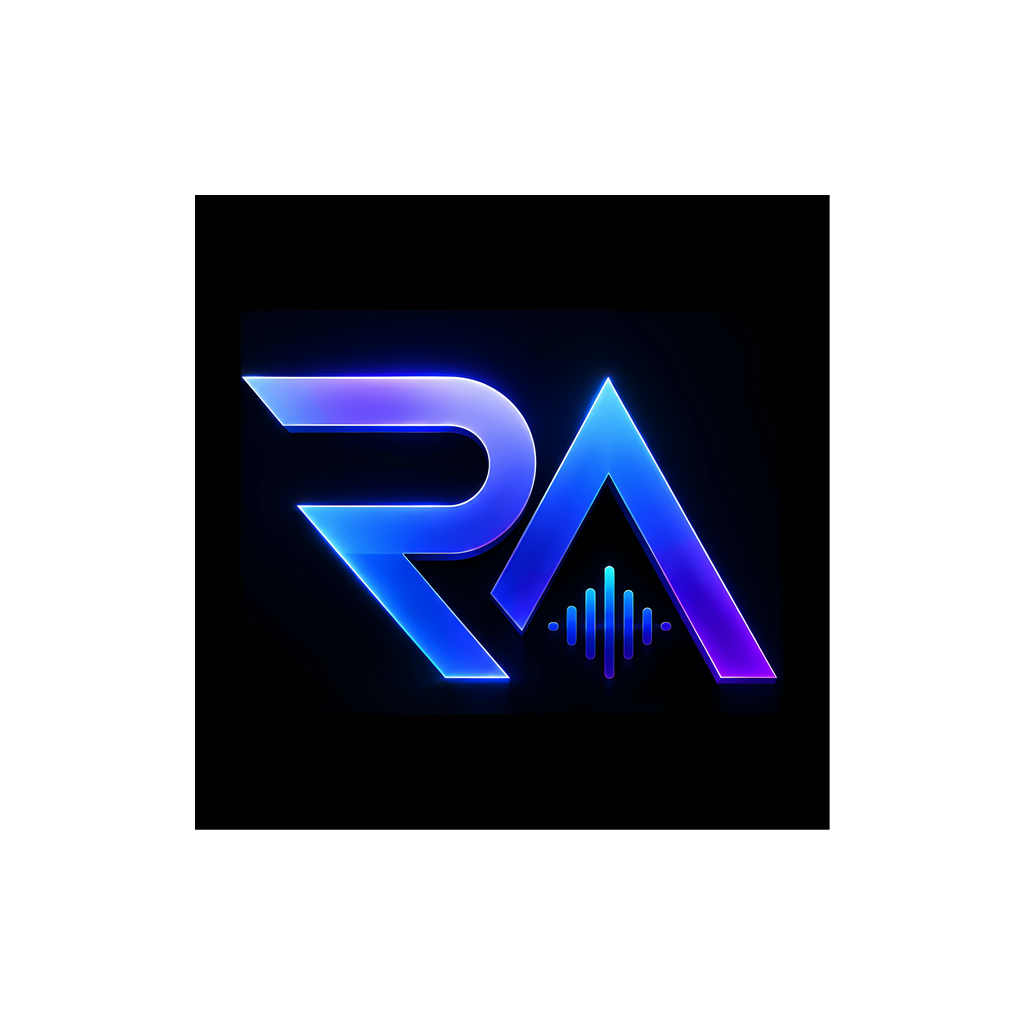
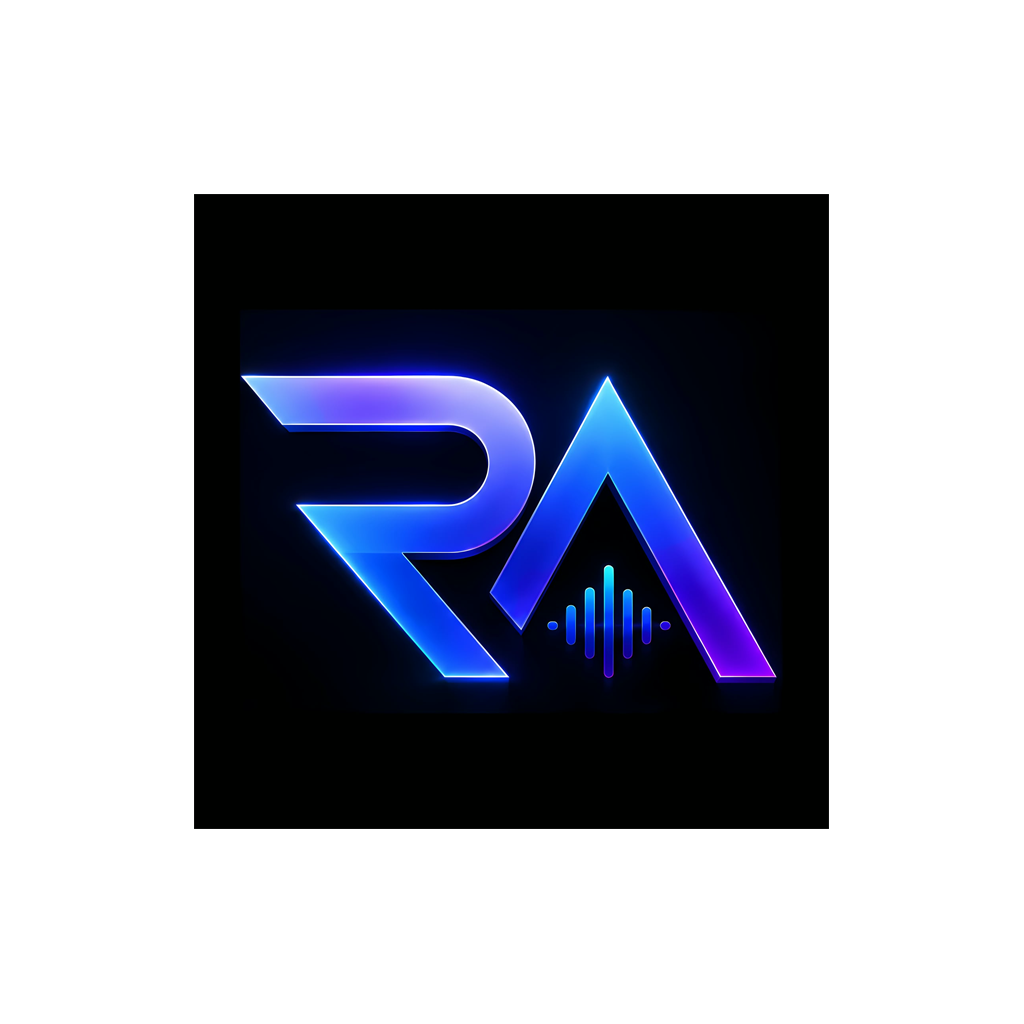
feat: recording UI resilience — hydration gates, AppState reconcile, pause-aware native timer
Reconcile the recording screen with real native state on mount and foreground
(AppState refresh), gate the tabs on storage hydration to prevent blank tabs on
cold start, make the foreground-service notification timer pause-aware, keep the
search scroll input usable (keyboardShouldPersistTaps / on-drag dismiss), correct
the phone-call card copy, and refresh app assets/name (RecordioAIApp).

diff --git a/plugins/withRecordioRecording/android/java/com/recordioai/app/service/RecordingForegroundService.kt b/plugins/withRecordioRecording/android/java/com/recordioai/app/service/RecordingForegroundService.kt
@@ -64,6 +64,7 @@ class RecordingForegroundService : Service() {
     private var mediaRecorder: MediaRecorder? = null
     private var outputFile: File? = null
     private var startTime: Long = 0
+    private var accumulatedDuration: Long = 0
     private var isRecording = false
     private var isPaused = false
     private var recordingType = "conversation"
@@ -76,6 +77,13 @@ class RecordingForegroundService : Service() {
         }
     }
     private val handler = android.os.Handler(android.os.Looper.getMainLooper())
+
+    private fun effectiveDurationMillis(): Long {
+        if (!isRecording || isPaused || startTime <= 0) return accumulatedDuration
+        return accumulatedDuration + (System.currentTimeMillis() - startTime)
+    }
+
+    private fun effectiveDurationSeconds(): Long = effectiveDurationMillis() / 1000
 
     override fun onCreate() {
         super.onCreate()
@@ -140,9 +148,7 @@ class RecordingForegroundService : Service() {
             createNotificationIntent(ACTION_PAUSE_RECORDING)
         }
 
-        val elapsed = if (isRecording && startTime > 0) {
-            System.currentTimeMillis() - startTime
-        } else 0L
+        val elapsed = if (isRecording) effectiveDurationMillis() else 0L
 
         val minutes = (elapsed / 1000 / 60) % 60
         val seconds = (elapsed / 1000) % 60
@@ -214,6 +220,7 @@ class RecordingForegroundService : Service() {
             isRecording = true
             isPaused = false
             startTime = System.currentTimeMillis()
+            accumulatedDuration = 0
             currentState = "recording"
             currentDuration = 0
             currentPaused = false
@@ -240,6 +247,10 @@ class RecordingForegroundService : Service() {
         if (!isRecording || isPaused) return
         if (Build.VERSION.SDK_INT >= Build.VERSION_CODES.N) {
             mediaRecorder?.pause()
+            if (startTime > 0) {
+                accumulatedDuration += System.currentTimeMillis() - startTime
+                startTime = 0
+            }
             isPaused = true
             currentPaused = true
             currentState = "paused"
@@ -255,6 +266,7 @@ class RecordingForegroundService : Service() {
             isPaused = false
             currentPaused = false
             currentState = "recording"
+            startTime = System.currentTimeMillis()
             sendStateEvent("recording")
             updateNotification()
         }
@@ -274,8 +286,9 @@ class RecordingForegroundService : Service() {
             isRecording = false
             isPaused = false
             val filePath = outputFile?.absolutePath
-            val duration = (System.currentTimeMillis() - startTime) / 1000
+            val duration = effectiveDurationSeconds()
             startTime = 0
+            accumulatedDuration = 0
             currentState = "stopped"
             currentPaused = false
 
@@ -300,11 +313,7 @@ class RecordingForegroundService : Service() {
     }
 
     private fun sendProgressEvent() {
-        val elapsed = if (isRecording && startTime > 0) {
-            (System.currentTimeMillis() - startTime) / 1000
-        } else 0L
-
-        currentDuration = elapsed.toInt()
+        currentDuration = effectiveDurationSeconds().toInt()
 
         val params = Arguments.createMap().apply {
             putInt("duration", currentDuration)

diff --git a/src/components/recording/RecordingScreen.tsx b/src/components/recording/RecordingScreen.tsx
@@ -1,7 +1,8 @@
 import React, { useCallback, useEffect, useRef, useState } from 'react';
-import { View, ScrollView, StyleSheet, Linking } from 'react-native';
+import { View, ScrollView, StyleSheet, Linking, AppState } from 'react-native';
 import { useRouter } from 'expo-router';
 import { Ionicons } from '@expo/vector-icons';
+import { useSafeAreaInsets } from 'react-native-safe-area-context';
 import { Theme } from '@/constants/theme';
 import { H1, H3, Body, Caption, Overline } from '@/components/Typography';
 import { Card } from '@/components/Card';
@@ -33,6 +34,7 @@ export function RecordingScreen({
   banner,
 }: RecordingScreenProps) {
   const router = useRouter();
+  const insets = useSafeAreaInsets();
   const {
     state,
     permissionGranted,
@@ -42,6 +44,7 @@ export function RecordingScreen({
     resumeRecording,
     checkPermissions,
     reset,
+    refresh,
   } = useRecordingService();
 
   const [phase, setPhase] = useState<ScreenPhase>('idle');
@@ -108,6 +111,20 @@ export function RecordingScreen({
     processingRef.current = false;
     stopPipelineRef.current?.();
   }, []);
+
+  // Reconcile with the real native recorder when the app returns to the
+  // foreground so the UI can never get stuck showing READY/00:00 while a
+  // native recording is actually in progress (e.g. after events were missed).
+  useEffect(() => {
+    const sub = AppState.addEventListener('change', (nextState) => {
+      if (nextState === 'active') {
+        refresh();
+      }
+    });
+    return () => {
+      sub.remove();
+    };
+  }, [refresh]);
 
   const handleStart = useCallback(async () => {
     setErrorMessage(null);
@@ -329,7 +346,7 @@ export function RecordingScreen({
         </Body>
       </View>
 
-      <View style={styles.bottomSpacer} />
+      <View style={[styles.bottomSpacer, { height: 40 + insets.bottom }]} />
     </ScrollView>
   );
 }

diff --git a/src/app/(tabs)/create-record/paste-transcript/index.tsx b/src/app/(tabs)/create-record/paste-transcript/index.tsx
@@ -1,6 +1,7 @@
 import React, { useCallback, useRef, useState } from 'react';
 import { View, ScrollView, StyleSheet, TextInput } from 'react-native';
 import { useRouter } from 'expo-router';
+import { useSafeAreaInsets } from 'react-native-safe-area-context';
 import { Ionicons } from '@expo/vector-icons';
 import { Theme } from '@/constants/theme';
 import { H1, H3, Body, Caption } from '@/components/Typography';
@@ -18,6 +19,7 @@ const MAX_TRANSCRIPT_CHARS = 500000;
 
 export default function PasteTranscriptScreen() {
   const router = useRouter();
+  const insets = useSafeAreaInsets();
   const [text, setText] = useState('');
   const [phase, setPhase] = useState<'idle' | 'processing' | 'error'>('idle');
   const [activeRecordingId, setActiveRecordingId] = useState<string | null>(null);
@@ -85,6 +87,8 @@ export default function PasteTranscriptScreen() {
       style={styles.scrollView}
       contentContainerStyle={styles.content}
       keyboardShouldPersistTaps="handled"
+      keyboardDismissMode="on-drag"
+      automaticallyAdjustKeyboardInsets
     >
       <View style={styles.header}>
         <H1 weight="bold" color="textPrimary">Paste Transcript</H1>
@@ -146,7 +150,7 @@ export default function PasteTranscriptScreen() {
         </Button>
       )}
 
-      <View style={styles.bottomSpacer} />
+      <View style={[styles.bottomSpacer, { height: 40 + insets.bottom }]} />
     </ScrollView>
   );
 }

diff --git a/src/app/index.tsx b/src/app/index.tsx
@@ -2,18 +2,30 @@ import React, { useEffect } from 'react';
 
 import { useAppStore } from '@/store/appStore';
 import { useRouter } from 'expo-router';
+import { View, ActivityIndicator } from 'react-native';
+import { Theme } from '@/constants/theme';
 
 export default function Index() {
-  const { onboarding } = useAppStore();
+  const { onboarding, hasHydrated } = useAppStore();
   const router = useRouter();
 
   useEffect(() => {
+    if (!hasHydrated) return;
+
     if (onboarding.completed) {
       router.replace('/(tabs)');
     } else {
       router.replace('/onboarding');
     }
-  }, [onboarding.completed, router]);
+  }, [onboarding.completed, hasHydrated, router]);
+
+  if (!hasHydrated) {
+    return (
+      <View style={{ flex: 1, backgroundColor: Theme.colors.backgroundPrimary, justifyContent: 'center', alignItems: 'center' }}>
+        <ActivityIndicator color={Theme.colors.primaryBlue} />
+      </View>
+    );
+  }
 
   return null;
 }

diff --git a/src/store/appStore.ts b/src/store/appStore.ts
@@ -14,6 +14,7 @@ interface AppState {
   activeConversationId: string | null;
   isLoading: boolean;
   error: string | null;
+  hasHydrated: boolean;
 }
 
 interface AppActions {
@@ -63,6 +64,7 @@ export const useAppStore = create<AppState & AppActions>()(
       activeConversationId: null,
       isLoading: false,
       error: null,
+      hasHydrated: false,
 
       setOnboardingStep: (step) =>
         set((state) => ({
@@ -144,6 +146,9 @@ export const useAppStore = create<AppState & AppActions>()(
         conversations: state.conversations,
         customers: state.customers,
       }),
+      onRehydrateStorage: () => (state) => {
+        useAppStore.setState({ hasHydrated: true });
+      },
     }
   )
 );

diff --git a/src/native/RecordingService.ts b/src/native/RecordingService.ts
@@ -194,6 +194,18 @@ export function useRecordingService() {
     });
   }, []);
 
+  const refresh = useCallback(async () => {
+    if (!isAndroid || !RecordingServiceModule) return;
+    try {
+      const nativeState = await RecordingService.getRecordingState();
+      if (nativeState && nativeState.state) {
+        updateState(nativeState);
+      }
+    } catch {
+      // Ignore transient refresh failures; events keep state fresh.
+    }
+  }, [updateState]);
+
   return {
     state,
     permissionGranted,
@@ -203,6 +215,7 @@ export function useRecordingService() {
     resumeRecording,
     checkPermissions,
     reset,
+    refresh,
   };
 }
 

diff --git a/src/app/(tabs)/create-record/index.tsx b/src/app/(tabs)/create-record/index.tsx
@@ -46,7 +46,7 @@ export default function CreateRecordScreen() {
     {
       id: 'phone-call',
       title: 'Phone Call',
-      description: 'Record incoming or outgoing phone calls with AI analysis.',
+      description: 'Capture a call through the device microphone. Android cannot record both call sides directly — see the on-screen notes.',
       icon: 'call',
       color: Theme.colors.cyanAccent,
       onPress: handlePhoneCall,

diff --git a/src/app/(tabs)/_layout.tsx b/src/app/(tabs)/_layout.tsx
@@ -9,9 +9,10 @@ type IoniconName = React.ComponentProps<typeof Ionicons>['name'];
 
 export default function TabLayout() {
   const onboarding = useAppStore((s) => s.onboarding);
+  const hasHydrated = useAppStore((s) => s.hasHydrated);
   const insets = useSafeAreaInsets();
 
-  if (!onboarding.completed) {
+  if (!hasHydrated || !onboarding.completed) {
     return null;
   }
 

diff --git a/src/app/(tabs)/conversations.tsx b/src/app/(tabs)/conversations.tsx
@@ -60,6 +60,8 @@ export default function ConversationsScreen() {
     <ScrollView
       style={styles.scrollView}
       contentContainerStyle={[styles.content, { paddingTop: Theme.spacing[4] + insets.top }]}
+      keyboardShouldPersistTaps="handled"
+      keyboardDismissMode="on-drag"
       refreshControl={
         <RefreshControl
           refreshing={false}
